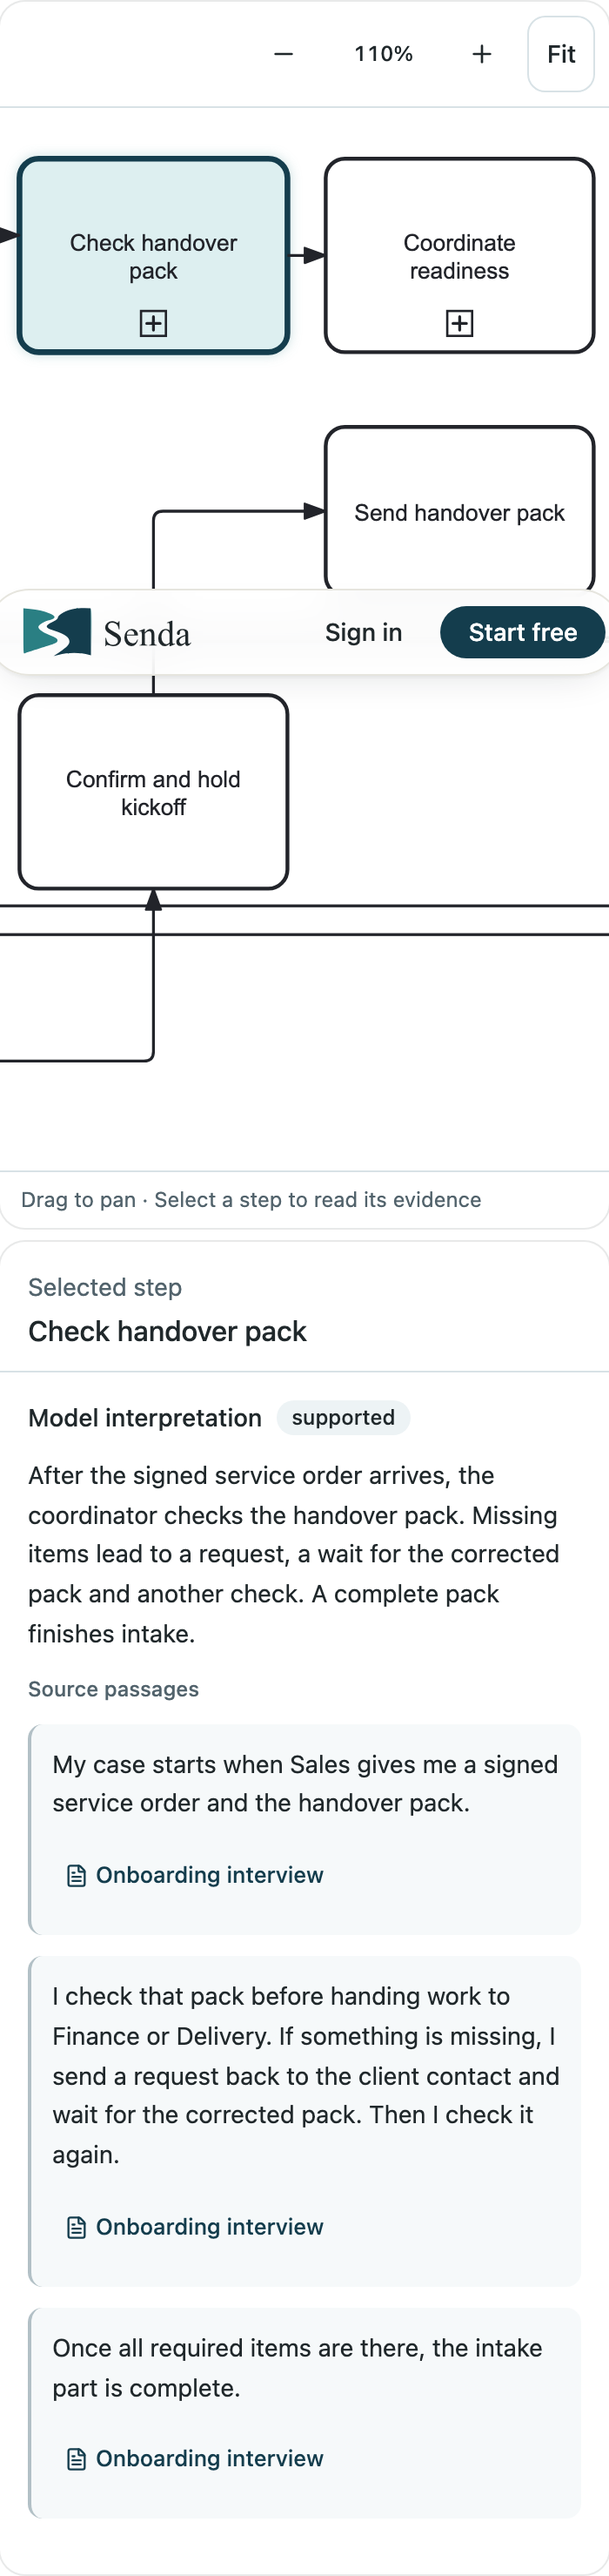
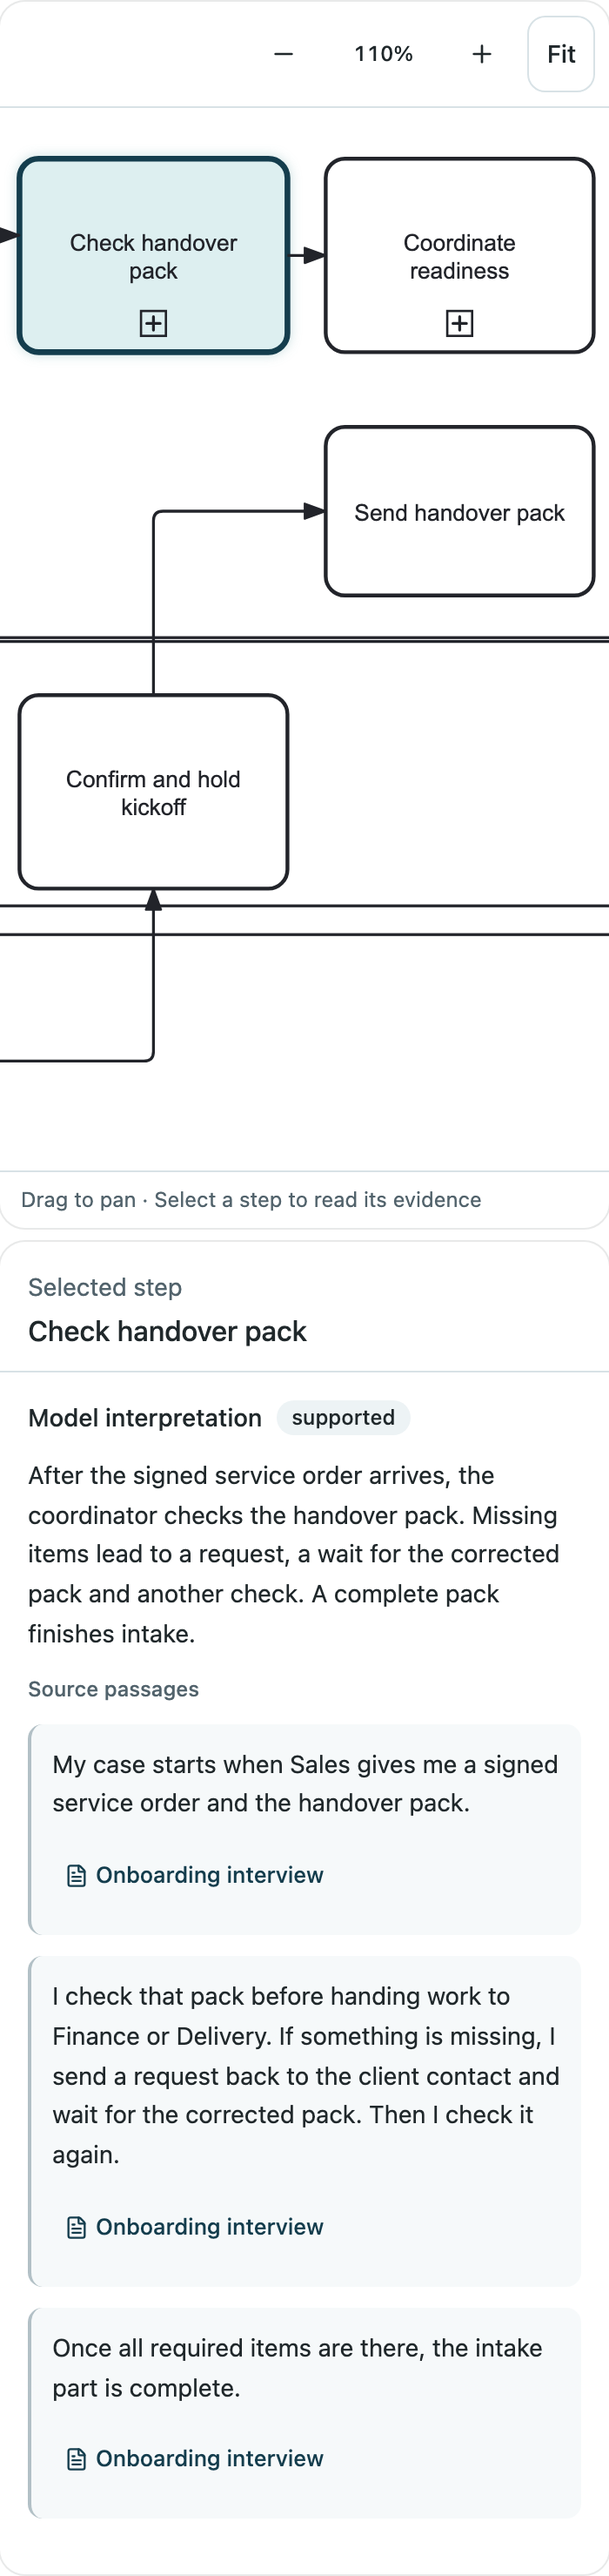
Keep the page still while the home page example loads at tablet widths, and take the header out of its phone captures
Between 640 and 1023 px the loaded example sat in a padded panel the capture didn't have, so the page
moved 80 px. The panel now starts at lg. The capture script hides anything fixed or sticky and stops if
the page's header would show in a capture.

Changed region(s): [[0.54, 0.2177, 1.0, 0.2799], [0.03, 0.2177, 0.3, 0.2799]]

diff --git a/scripts/capture-marketing-previews.js b/scripts/capture-marketing-previews.js
@@ -42,9 +42,24 @@ const open = async (route, width, height, deviceScaleFactor = 1) => {
   const page = await context.newPage();
   await page.goto(origin + route, { waitUntil: "networkidle" });
   await page.addStyleTag({ content: "*{animation:none!important;transition:none!important}" });
+  await hideOverlays(page);
   return page;
 };
+// The page's header and anything else fixed or sticky would be drawn across a capture, where it looks like
+// controls that do nothing. Runs in the page.
+const overlays = () => [...document.querySelectorAll("body *")].filter((node) => {
+  const style = getComputedStyle(node), box = node.getBoundingClientRect();
+  return ["fixed", "sticky"].includes(style.position) && style.visibility !== "hidden" && box.width > 0 && box.height > 0;
+});
+const hideOverlays = (page) => page.evaluate(`(${overlays})().forEach((node) => node.style.setProperty("visibility", "hidden", "important"))`);
+// Stop if the header, or anything else fixed or sticky, would show in a capture.
+const clear = async (page, name) => {
+  const shown = await page.evaluate(`(${overlays})().map((node) => node.tagName.toLowerCase() + ": " + node.textContent.trim().slice(0, 40))`);
+  const header = await page.locator(".marketing > header").isVisible();
+  if (header || shown.length) throw new Error(`${name} would show ${header ? "the page's header" : shown.join(", ")}`);
+};
 const vector = async (page, name, cropSelector, height) => {
+  await clear(page, name);
   const capture = await page.evaluate(`(${capturePreview})(${JSON.stringify({ cropSelector })})`);
   if (height) capture.crop.height = height;
   writeFileSync(path.join(out, `${name}-vector.json`), JSON.stringify(capture));
@@ -63,6 +78,7 @@ const openDemo = async (width, height, deviceScaleFactor) => {
   // The page holds the example to the old capture's height until the width changes, so change it and
   // change it back to capture the example at its own height.
   await page.setViewportSize({ width: width + 1, height });
+  await page.waitForFunction((selector) => !document.querySelector(selector + " [data-held]"), demoSelector);
   await page.setViewportSize({ width, height });
   await page.waitForTimeout(500);
   if ((await page.locator(`${demoSelector} [data-slot="card-title"]`).innerText()) !== "Check handover pack") throw new Error("The home page example doesn't open on Check handover pack");
@@ -111,12 +127,14 @@ for (const [suffix, question] of [["", 390], ["-small", 320]]) {
   let page = await open("/example?draft=true&section=questions", question, 844, 2);
   await page.locator(questionItem).first().waitFor();
   let box = await questionCrop(page);
+  await clear(page, "clarification-mobile" + suffix);
   await page.screenshot({ path: path.join(out, `clarification-mobile${suffix}.png`), clip: box });
   check("clarification-mobile" + suffix, box, await page.evaluate(`(${minText})(${JSON.stringify(box)})`));
   await page.context().close();
 
   page = await openDemo(question, 844, 2);
   box = await page.locator(demoSelector).boundingBox();
+  await clear(page, "evidence-mobile" + suffix);
   await page.locator(demoSelector).screenshot({ path: path.join(out, `evidence-mobile${suffix}.png`) });
   check("evidence-mobile" + suffix, box, await page.evaluate(`(${minText})(${JSON.stringify(box)}, ${JSON.stringify(demoSelector)})`));
   await page.context().close();

diff --git a/src/web/components/marketing.tsx b/src/web/components/marketing.tsx
@@ -12,7 +12,7 @@ import { PathArt } from "./path-art";
 import { PricingPlans } from "./pricing-plans";
 
 // Bump the version when public/marketing changes (docs/marketing-design.md, "Sharp product previews").
-const capture = (file: string) => `/marketing/${file}?v=9`;
+const capture = (file: string) => `/marketing/${file}?v=10`;
 const repository = "https://github.com/HanifCarroll/Senda";
 const methodology = `${repository}/blob/main/skills/senda/references/methodology.md`;
 
@@ -234,7 +234,8 @@ function EvidenceVisual() {
     <div className="flex flex-col items-center gap-6">
       <div ref={frame} data-visual data-capture="evidence" className="w-full">
         {demo ? (
-          <div className={panel}>
+          // The cream panel starts at lg here. Below it the capture has no panel, and the example takes its exact box.
+          <div className="lg:rounded-[1.75rem] lg:bg-muted lg:p-10">
             <div data-held={held ? "" : undefined} style={{ height: held }} className={phoneWidth + " lg:h-[756px]"} onClickCapture={release} onKeyDownCapture={release}>
               <demo.Demo review={demo.review} />
             </div>
@@ -242,7 +243,7 @@ function EvidenceVisual() {
         ) : (
           // The captures are pictures of this panel with the example loaded, so nothing moves when it loads.
           <picture>
-            <source media="(max-width: 359px)" srcSet={capture("evidence-mobile-small.png")} width="280" height="1564" />
+            <source media="(max-width: 359px)" srcSet={capture("evidence-mobile-small.png")} width="280" height="1562" />
             <source media="(max-width: 1023px)" srcSet={capture("evidence-mobile.png")} width="350" height="1478" />
             <img
               src={capture("evidence.svg")}

diff --git a/scripts/test-cloudflare-browser.js b/scripts/test-cloudflare-browser.js
@@ -138,7 +138,7 @@ try {
   console.log("Homepage example shows a selected step's evidence in place and leaves the page scroll alone");
   // The capture holds the example's place: nothing moves when the example loads, and it stays if the load fails.
   const exampleData = "**/examples/onboarding-draft.json";
-  for (const width of [1440, 390, 320]) {
+  for (const width of [1440, 1024, 768, 390, 320]) {
     const bounds = () => p.evaluate(() => {
       const section = document.querySelector('[data-section="evidence"]'), next = section.nextElementSibling;
       return [section.getBoundingClientRect().height, next.getBoundingClientRect().top + scrollY];

diff --git a/docs/marketing-design.md b/docs/marketing-design.md
@@ -63,15 +63,15 @@ Live references were inspected and visually captured on 27 October 2026:
 
 ## The live example
 
-The evidence section embeds the public example instead of a picture of it, so a visitor can select a step and read its evidence without leaving the page. `EvidenceDemo` in `src/web/components/evidence-demo.tsx` shows the first draft's main view in the app's own `DiagramCanvas` and `EvidencePanel`, with "Check handover pack" selected. The first draft's main view is the one view where five steps have different passages from the interview itself, and the questions section under it shows the same draft's question. The diagram opens at 110%, so its labels are 12 px, from the view's top left corner. From 1024 px up every step is in view. On a phone the diagram is wider than the screen, so it starts at its left edge with the selected step in view.
+The evidence section embeds the public example instead of a picture of it, so a visitor can select a step and read its evidence without leaving the page. `EvidenceDemo` in `src/web/components/evidence-demo.tsx` shows the first draft's main view in the app's own `DiagramCanvas` and `EvidencePanel`, with "Check handover pack" selected. The first draft's main view is the one view whose steps show different passages from the interview itself: three passage sets across five steps, because "Verify workspace access", "Confirm and hold kickoff" and "Send handover pack" share one set, and the questions section under it shows the same draft's question. The diagram opens at 110%, so its labels are 12 px, from the view's top left corner. From 1024 px up every step is in view. On a phone the diagram is wider than the screen, so it starts at its left edge with the selected step in view.
 
 - **Nothing navigates.** The selection is local state, so the URL never changes. A passage's source opens in a sheet over the page. The plain "Open the full example" link under it goes to `/example?draft=true` and is the only way out.
 - **No dead buttons.** The demo shows one view, so a subprocess is a step with evidence and has no "Explore this part" button. A step's related questions are shown as text, because the demo has no question list to open. In the app both are still buttons.
-- **It loads late, and nothing moves when it does.** The page first shows a capture of the demo itself, in the same box. The demo's code (about 2 kB) and `public/examples/onboarding-draft.json` (119 kB, 16 kB compressed) load when the section comes within 800 px of the viewport. If either fails, the capture stays. From 1024 px up the box is the cream panel, 836 px tall. Below that the demo takes the capture's exact height, and the diagram absorbs any difference, until the visitor selects a step or resizes the window.
+- **It loads late, and nothing moves when it does.** The page first shows a capture of the demo itself, in the same box. The demo's code (about 2 kB) and `public/examples/onboarding-draft.json` (119 kB, 16 kB compressed) load when the section comes within 800 px of the viewport. If either fails, the capture stays. From 1024 px up the box is the cream panel, 836 px tall. Below that neither has a panel, the capture and the demo are both 350 px wide (280 px under 360 px), and the demo takes the capture's exact height, and the diagram absorbs any difference, until the visitor selects a step or resizes the window.
 - **It doesn't trap the page's scroll.** A wheel or trackpad scroll over the diagram scrolls the page; only a pinch or Ctrl and the wheel zooms. On a touch screen a swipe up or down scrolls the page (`touch-action: pan-y` on `.evidence-demo .diagram-stage`), and a sideways drag pans the diagram. Drag, the zoom buttons and Fit work as in the app.
-- **Phones** show the diagram 610 px tall, which holds every step at 110%, with the evidence panel under it at its full height, so the panel never scrolls inside the page. Together they are 1,478 px tall at 390 px and 1,564 px at 320 px.
+- **Phones** show the diagram 610 px tall, which holds every step at 110%, with the evidence panel under it at its full height, so the panel never scrolls inside the page. Together they are 1,478 px tall at 390 px and 1,562 px at 320 px.
 
-`scripts/test-cloudflare-browser.js` selects a step in it and checks that the panel shows another passage, the URL doesn't change, and the wheel scrolls the page. At 1440, 390 and 320 px it holds the data request back and checks that the section's height and the next section's top don't move when the demo appears, then fails the request and checks that the capture stays.
+`scripts/test-cloudflare-browser.js` selects a step in it and checks that the panel shows another passage, the URL doesn't change, and the wheel scrolls the page. At 1440, 1024, 768, 390 and 320 px it holds the data request back and checks that the section's height and the next section's top don't move when the demo appears, then fails the request and checks that the capture stays.
 
 ## Captures
 
@@ -95,12 +95,12 @@ Earlier WebP assets included desktop captures enlarged from 1× images, and an e
 | --- | --- | --- | --- |
 | `evidence.svg` | 1024 px and wider, until the live example loads | 1088 × 836 | The evidence section's cream panel on `/` at 1440 × 1100, with the example loaded |
 | `evidence-mobile.png` | 360 to 1023 px, until the live example loads | 350 × 1478 | The loaded example on `/` at 390 × 844 |
-| `evidence-mobile-small.png` | Under 360 px, until the live example loads | 280 × 1564 | The loaded example on `/` at 320 × 844 |
+| `evidence-mobile-small.png` | Under 360 px, until the live example loads | 280 × 1562 | The loaded example on `/` at 320 × 844 |
 | `clarification.svg` | 861 to 1023 px | 720 × 106 | `/example?draft=true&section=questions` at 800 × 1000, cropped to the first `.reading-column [data-slot="accordion-item"]` and cut 16 px under its reason |
 | `clarification-mobile.png` | 360 to 860 px, and 1024 px and wider, where the question sits beside the text | 334 × 146 | The same question at 390 × 844 |
 | `clarification-mobile-small.png` | Under 360 px | 264 × 186 | The same question at 320 × 844 |
 
 1. If the example's data changed, first run `node scripts/build-public-example.js`; it rewrites `public/examples/onboarding-draft.json` and `onboarding-final.json` from `examples/complex-onboarding/proposals.js`. Then run `npm run build`, then `npm run serve`, so the home page and the public example are at `http://127.0.0.1:3000`. Install the browser once with `npx playwright install chromium`.
-2. Run `node scripts/capture-marketing-previews.js <capture-directory>`. It uses the read-only `capturePreview` function in [capture-preview-dom.js](../scripts/capture-preview-dom.js) for the two vector captures and saves them as `evidence-vector.json` and `clarification-vector.json`. For the evidence captures it opens `/`, scrolls to the evidence section and waits for the live example. The page holds the example to the old capture's height on a phone, so the script changes the viewport's width and changes it back to let it take its own height. It stops if the example doesn't open on "Check handover pack", if the selected step is cut by the diagram's edge (on desktop, if any step is), or if the interviewee's passage isn't visible in the panel. The vector capture removes the rest of the home page first, so the image holds only the panel. For the question it cuts the crop 16 px under the reason. It saves the four phone PNGs with animations disabled. It prints each capture's size and smallest text, and stops if any text is under 12 px.
+2. Run `node scripts/capture-marketing-previews.js <capture-directory>`. It uses the read-only `capturePreview` function in [capture-preview-dom.js](../scripts/capture-preview-dom.js) for the two vector captures and saves them as `evidence-vector.json` and `clarification-vector.json`. For the evidence captures it opens `/`, scrolls to the evidence section and waits for the live example. The page holds the example to the old capture's height on a phone, so the script changes the viewport's width, waits for the hold to end, and changes it back, which lets the example take its own height. It hides the page's header and anything else fixed or sticky on every page it opens, and stops if any would show in a capture. It stops if the example doesn't open on "Check handover pack", if the selected step is cut by the diagram's edge (on desktop, if any step is), or if the interviewee's passage isn't visible in the panel. The vector capture removes the rest of the home page first, so the image holds only the panel. For the question it cuts the crop 16 px under the reason. It saves the four phone PNGs with animations disabled. It prints each capture's size and smallest text, and stops if any text is under 12 px.
 3. Run `npm run build:marketing -- <capture-directory>`. The builder validates and writes the two SVGs and copies the four PNGs into `public/marketing`. To refresh only the phone images, use `node scripts/build-marketing-previews.js <capture-directory> --mobile-only`; this needs only the PNGs and leaves the SVGs unchanged.
-4. If a capture's size changed, update its `width` and `height` in `src/web/components/marketing.tsx`, and for the desktop evidence capture the two heights beside it (`lg:h-[836px]` and the example's `lg:h-[756px]`, which is 80 px less for the panel's padding). Bump the version in that file's `capture` function, then check the images as embedded images at 1440, 390 and 320 px. Check that each crop is complete and that the question image opens its example view. If the example's first state changed, capture twice: the first run records its new height, and the second is taken with nothing held.
+4. If a capture's size changed, update its `width` and `height` in `src/web/components/marketing.tsx`, and for the desktop evidence capture the two heights beside it (`lg:h-[836px]` and the example's `lg:h-[756px]`, which is 80 px less for the panel's padding). Bump the version in that file's `capture` function, then check the images as embedded images at 1440, 390 and 320 px. Check that each crop is complete and that the question image opens its example view.

diff --git a/CHANGELOG.md b/CHANGELOG.md
@@ -4,7 +4,7 @@
 
 - Rebuild the homepage as one idea per section on a shared template: the comparison with asking an AI now comes before the product sections, the walkthrough is three sections with full-width captures, and marketing text is 16 px or larger. Product captures show the app's text at 12 px at 1440, 390 and 320 px wide, and at about 10.5 px or more at the widths in between.
 - Make the homepage copy clearer: one name for each thing ("the agent", "diagram", "passage"), a rewritten questions section, both ways to use an agent, revisions split from the To-be plan, plainer plan terms, and a new "What can I add?" question. The evidence capture now shows the interviewee's own words, the question capture drops the step buttons, and the example's first question gives its reason in plain words.
-- Show the public example live in the homepage's evidence section, so selecting a step shows its passage on the page instead of opening `/example`. It shows the first draft's main view, where each step has its own passage, loads when the section comes near the viewport without moving the page, and never takes over the page's scroll. On desktop, sections now put text beside their visual, alternating sides, which makes the page about 900 px shorter at 1440 px wide.
+- Show the public example live in the homepage's evidence section, so selecting a step shows its passage on the page instead of opening `/example`. It shows the first draft's main view, whose steps show three different sets of passages, loads when the section comes near the viewport without moving the page, and never takes over the page's scroll. On desktop, sections now put text beside their visual, alternating sides, which makes the page about 900 px shorter at 1440 px wide.
 
 ## 0.4.0
 
